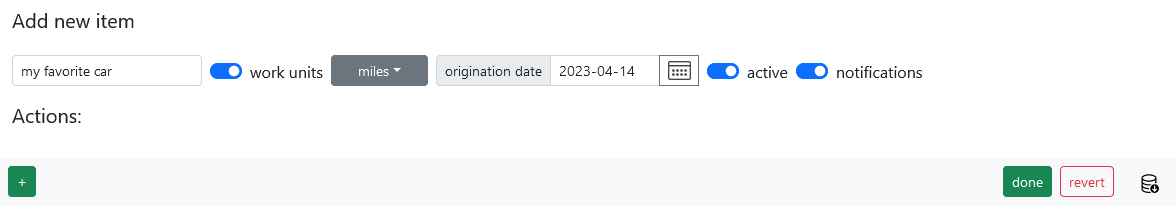
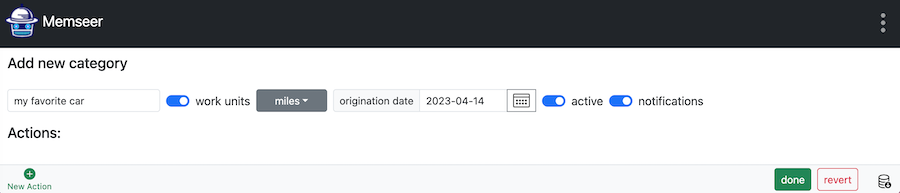
Update add new category picture:vehicle

diff --git a/docs/examples/vehicle.md b/docs/examples/vehicle.md
@@ -17,7 +17,7 @@ Enter your email and password and complete sign in.
 
 Let's add new item from dashboard:
 
-![](../../assets/images/examples/vehicle/add_new_category.png)
+![](../../assets/images/examples/vehicle/add_new_category.jpg)
 
 Give it a name (for example: "my favorite car"), click "work units", select "miles" from the dropdown and select origination date:
 
